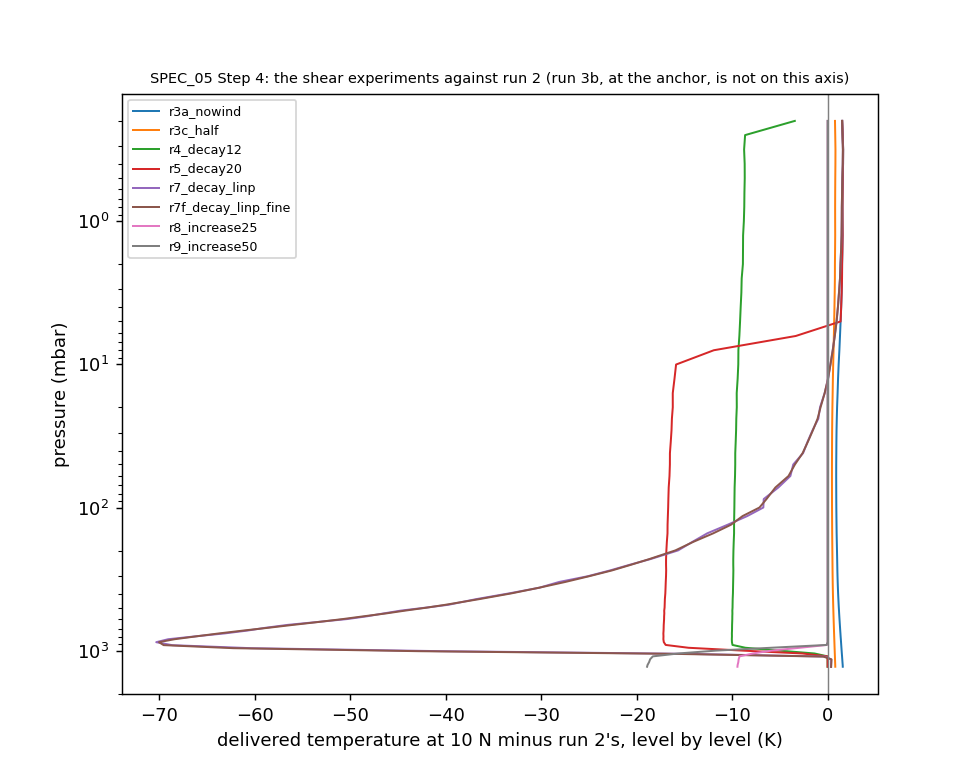
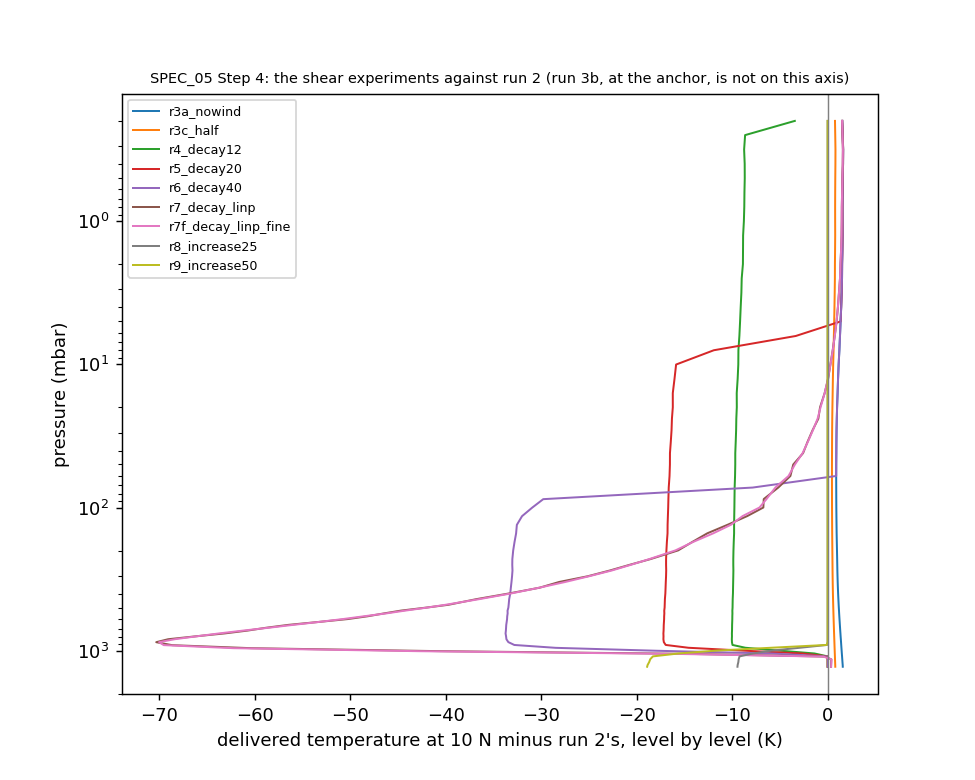
SPEC_05 Step 4: the experiments' outer-loop tolerance at 1e-3 (REVIEW_05_step4, Addendum 2, option A)
relative_tolerance_ln_p = 1.0e-3 in the eleven experiment namelists only;
lindal_transfer.toml and the registered transfer product unchanged. All 21
runs complete, runs 6 at 5e4 and 7 at 2.5e4 included; step05_4 4 of 4.
The review's addenda, REPORT_05_step4 sections 7 and 8, and the comparison
figure redrawn.

diff --git a/reports/REPORT_05_step4.md b/reports/REPORT_05_step4.md
@@ -222,3 +222,50 @@ driver as the evidence:
 product, passes. The registered kind N, the closure inputs and product, and the transfer inputs and
 product restored exactly; afterwards `git diff --name-only -- '*.nc'` is empty and no file carries a
 `skip-worktree` mark.
+
+## 8. The outer loop's tolerance at 1e-3 (REVIEW_05_step4, Addendum 2, option A)
+
+`[numerics.outer_loop] relative_tolerance_ln_p = 1.0e-3` in the eleven experiment namelists only;
+`max_iterations` stays 50. `forward/lindal_transfer/lindal_transfer.toml` and the registered
+transfer product are not changed. No code changed. `step05_4` was rerun through the driver: 4 of 4,
+990 s; the registered kind N, the closure inputs and product, and the transfer inputs and product
+restored exactly; afterwards `git diff --name-only -- '*.nc'` is empty and no file carries a
+`skip-worktree` mark.
+
+**All 21 runs complete.** Runs 6 at 5e4 and 7 at 2.5e4, which stopped at 1e-8, complete in 5 and 6
+passes. Runs 2 and 3a to 3c are unchanged (their residual reaches zero at pass 1 or 2), run 2 still
+array-equal to the registered product (check 1). Runs 4 to 9 stop two to six passes earlier, now 3
+to 6. Against section 3's table at 1e-8, the columns of the runs that completed at both tolerances
+move by at most 0.012 K in temperature (run 7 at 5e4, largest dT -70.306 to -70.318 K), and `r0`
+not at all. The pressure identity is unchanged to three digits in every run that completed at both.
+The two new runs: run 6 at 5e4, -33.73 K at largest, within 0.07 K of run 6 at 2.5e4, identity
+2.23e-3; run 7 at 2.5e4, -74.55 K at largest and -42.64 K at 1 bar, against -70.32 K and -40.56 K
+at 5e4, identity 2.82e-3 against 8.67e-3 at 5e4. Check 4's bound of 1e-2 holds for every run.
+
+| Run | Spacing | Largest dT from run 2 (K) | at p (Pa) | dT at 1 bar | dT at gauge | dT at top | dz at 1 bar (m) | dz at gauge (m) | dz at top (m) | r0 (m) | identity | passes | wall (s) |
+|---|---|---|---|---|---|---|---|---|---|---|---|---|---|
+| shear_r2_uniform | 5e4 | +0.000 | 19.95 | +0.000 | +0.000 | +0.000 | +0.0 | +0.0 | +0.0 | 60,128,612.97 | 5.78e-07 | 2 | 35.3 |
+| shear_r2_uniform | 2.5e4 | +0.000 | 2882 | +0.000 | +0.000 | +0.000 | -0.0 | -0.0 | +0.0 | 60,128,612.97 | 5.77e-07 | 2 | 20.7 |
+| shear_r3a_nowind | 5e4 | +1.626 | 31.65 | +1.467 | +0.912 | +1.529 | -3.4 | -227.1 | -949.8 | 60,092,307.69 | 5.41e-07 | 1 | 33.5 |
+| shear_r3a_nowind | 2.5e4 | +1.626 | 31.65 | +1.467 | +0.912 | +1.529 | -3.4 | -227.1 | -949.8 | 60,092,307.69 | 5.41e-07 | 1 | 19.8 |
+| shear_r3b_nowind_anchor | 5e4 | +1.626 | 31.65 | +1.467 | +0.912 | +1.529 | -9.2 | -8122.3 | -34355.3 | 58,516,188.29 | 5.41e-07 | 1 | 33.9 |
+| shear_r3b_nowind_anchor | 2.5e4 | +1.626 | 31.65 | +1.467 | +0.912 | +1.529 | -9.2 | -8122.3 | -34355.3 | 58,516,188.29 | 5.41e-07 | 1 | 19.9 |
+| shear_r3c_half | 5e4 | +0.821 | 31.65 | +0.741 | +0.460 | +0.772 | -1.7 | -114.5 | -478.7 | 60,110,315.85 | 5.61e-07 | 2 | 36.5 |
+| shear_r3c_half | 2.5e4 | +0.821 | 31.65 | +0.741 | +0.460 | +0.772 | -1.7 | -114.5 | -478.7 | 60,110,315.85 | 5.59e-07 | 2 | 21.6 |
+| shear_r4_decay12 | 5e4 | -10.032 | 8.314e+04 | -5.022 | -9.765 | -3.437 | -29.8 | -9834.3 | -36814.9 | 60,118,683.65 | 2.07e-03 | 3 | 38.5 |
+| shear_r4_decay12 | 2.5e4 | -10.043 | 8.708e+04 | -5.283 | -9.772 | -3.471 | -4.5 | -9866.4 | -36897.7 | 60,118,683.65 | 2.82e-03 | 3 | 23.0 |
+| shear_r5_decay20 | 5e4 | -17.200 | 7.576e+04 | -8.746 | -16.698 | +1.529 | -49.8 | -16823.7 | -36817.3 | 60,111,621.40 | 2.60e-03 | 4 | 39.4 |
+| shear_r5_decay20 | 2.5e4 | -17.234 | 8.708e+04 | -9.058 | -16.713 | +1.529 | -9.7 | -16882.5 | -36891.9 | 60,111,621.40 | 3.79e-03 | 4 | 24.6 |
+| shear_r6_decay40 | 5e4 | -33.730 | 7.578e+04 | -17.911 | -30.942 | +1.529 | -114.4 | -32743.6 | -37251.0 | 60,095,468.90 | 2.23e-03 | 5 | 40.7 |
+| shear_r6_decay40 | 2.5e4 | -33.796 | 8.71e+04 | -18.272 | -31.376 | +1.529 | -39.9 | -32914.5 | -36778.4 | 60,095,468.90 | 3.14e-03 | 5 | 26.1 |
+| shear_r7_decay_linp | 5e4 | -70.318 | 8.72e+04 | -40.563 | -6.732 | +1.512 | -328.8 | -31662.2 | -35939.5 | 60,095,886.48 | 8.67e-03 | 5 | 40.5 |
+| shear_r7_decay_linp | 2.5e4 | -74.549 | 8.711e+04 | -42.639 | -6.729 | +1.512 | -123.6 | -32163.0 | -36427.7 | 60,095,886.48 | 2.82e-03 | 6 | 26.9 |
+| shear_r7f_decay_linp_fine | 5e4 | -70.016 | 8.715e+04 | -42.806 | -7.138 | +1.512 | -336.8 | -31676.1 | -35962.4 | 60,095,886.48 | 9.10e-03 | 6 | 40.1 |
+| shear_r8_increase25 | 5e4 | -9.443 | 1.294e+05 | -5.871 | +0.000 | +0.000 | +3.6 | -119.2 | -119.2 | 60,128,612.97 | 5.46e-04 | 3 | 36.0 |
+| shear_r8_increase25 | 2.5e4 | -9.408 | 1.294e+05 | -5.383 | +0.000 | +0.000 | -1.7 | -58.0 | -58.0 | 60,128,612.97 | 4.34e-05 | 3 | 21.9 |
+| shear_r9_increase50 | 5e4 | -18.903 | 1.294e+05 | -11.661 | +0.000 | +0.000 | +8.8 | -240.6 | -240.6 | 60,128,612.97 | 1.12e-03 | 3 | 35.8 |
+| shear_r9_increase50 | 2.5e4 | -18.829 | 1.294e+05 | -10.717 | +0.000 | +0.000 | -2.8 | -117.2 | -117.2 | 60,128,612.97 | 1.04e-04 | 3 | 22.0 |
+
+Section 3's table is the record at 1e-8. The comparison figure is redrawn from these runs by
+`accept_step05_4.py --no-run` (the driver restores `reports/figures/` after each suite) and now
+includes run 6 at 5e4; the four checks pass there too.

diff --git a/reports/REVIEW_05_step4.md b/reports/REVIEW_05_step4.md
@@ -85,3 +85,48 @@ next step is a case built to be realistic, before any comparison with observatio
 2. The author's go; the acceptance commit as section 6 lists plus `forward/transfer.py`, with check 4
    bounded as above. No AI attribution.
 3. `STATE.md`: Step 4 accepted; SPEC_05's shear part complete.
+
+## Addendum, 2 October 2026: the two additions, reviewed
+
+Read in REPORT_05_step4 §7. Both are done as asked; **Step 4 accepted.**
+
+1. **The outer loop.** Both failed runs converge normally for five to eight passes and then hold a
+   constant residual, to seven digits, for forty passes, with the mesh unchanged. A constant
+   non-zero step between successive maps is a cycle, almost certainly between two states: a
+   discrete choice in the tracing (a curve or a level landing on one side of a mesh boundary or the
+   other) flipping back and forth. It is a property of extreme cases (40 and 100 percent per scale
+   height), and each converges at the other spacing. If it matters for realistic cases, the remedy
+   is to damp the update (average successive maps) or to detect the cycle and stop on it; either
+   changes numbers and belongs in a later step. Recorded, nothing to do now.
+2. **The kink at `p_s`.** Confirmed: with `p_s` at 1.3e5 Pa the 998.7 mbar level and the three
+   below it change by zero to round-off, and the change reaches up from the kink by about one mesh
+   cell. My suggested 1.05e5 Pa was too close: it moved the kink only half a cell, which the run
+   showed; the agent's second run settled it.
+
+The print-only change to `forward/transfer.py` moved no number (`step04_5` 11 of 11, check 11
+against the registered closure product). SPEC_05's shear work is complete.
+
+## Addendum 2, 2 October 2026: the outer loop's tolerance (author), option A
+
+Good enough is the standard: a change of a fraction of a kelvin or a fraction of a pascal between
+passes is noise, and a run should stop there, not integrate back and forth over it. The two runs
+that stopped were parked at 1.5e-4 in `ln p`, about 0.02 K. The kink at `p_s` is not involved:
+every kink case converged in five or six passes.
+
+1. **`[numerics.outer_loop] relative_tolerance_ln_p = 1.0e-3`** (0.1 percent in pressure, about
+   0.1 K) in the eleven experiment namelists only. A control-file value; no code changes.
+   `max_iterations` stays 50.
+2. **`forward/lindal_transfer/lindal_transfer.toml` is not changed,** nor the registered transfer
+   product. The SPEC_04 suites `step04_4` and `step04_5` take their outer-loop tolerance from that
+   namelist (the coding agent found this; my first version of this addendum assumed they did not),
+   and the registered product records the namelist, so changing it would reach the long suites.
+3. **Rerun `step05_4` only** (about 20 minutes): it gives the new pass counts and should show
+   runs 2 and 3a to 3c unchanged, runs 4 to 9 stopping two to six passes earlier, and runs 6 at 5e4
+   and 7 at 2.5e4 completing.
+
+**Note for later.** `lindal_transfer.toml` is the template `casspian-new-run` copies, so a new run
+starts at 1e-8 until a person edits it. The clean fix is for `step04_4` and `step04_5` to pin their
+own outer-loop tolerance instead of reading the production namelist, as accepted suites already pin
+their mesh spacings; the template can then move to 1e-3 without touching an accepted check. A
+test-side change for whenever the long suites next run anyway (the control-file audit, for
+example), not now.
